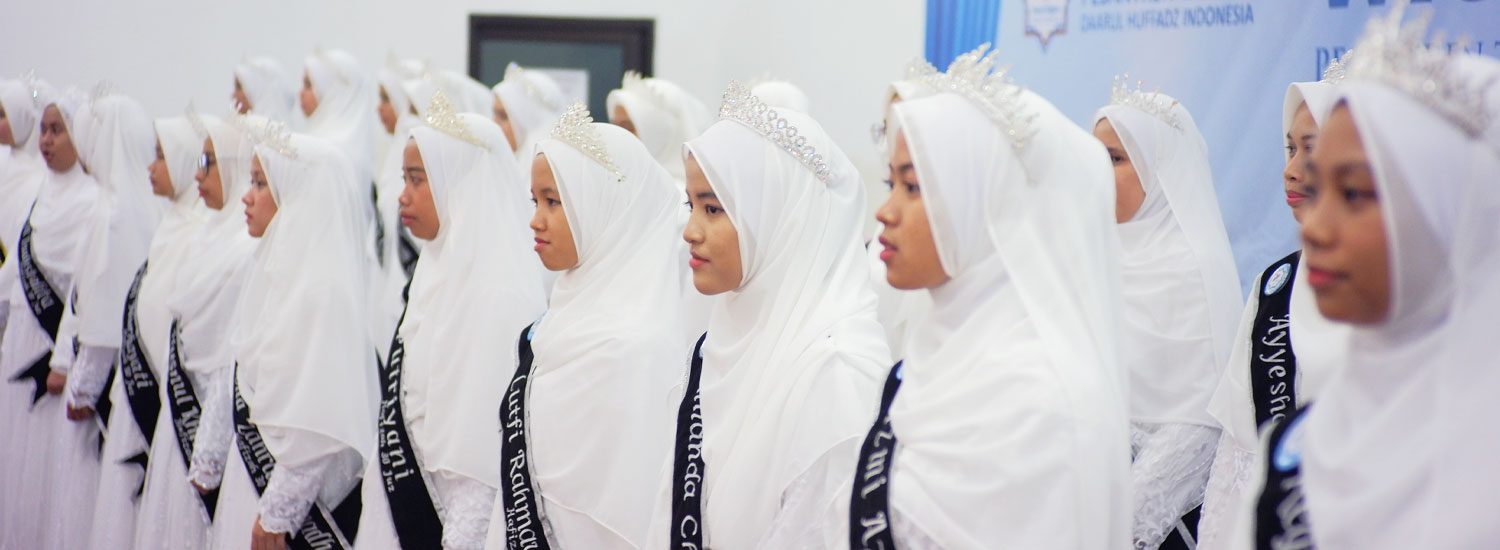
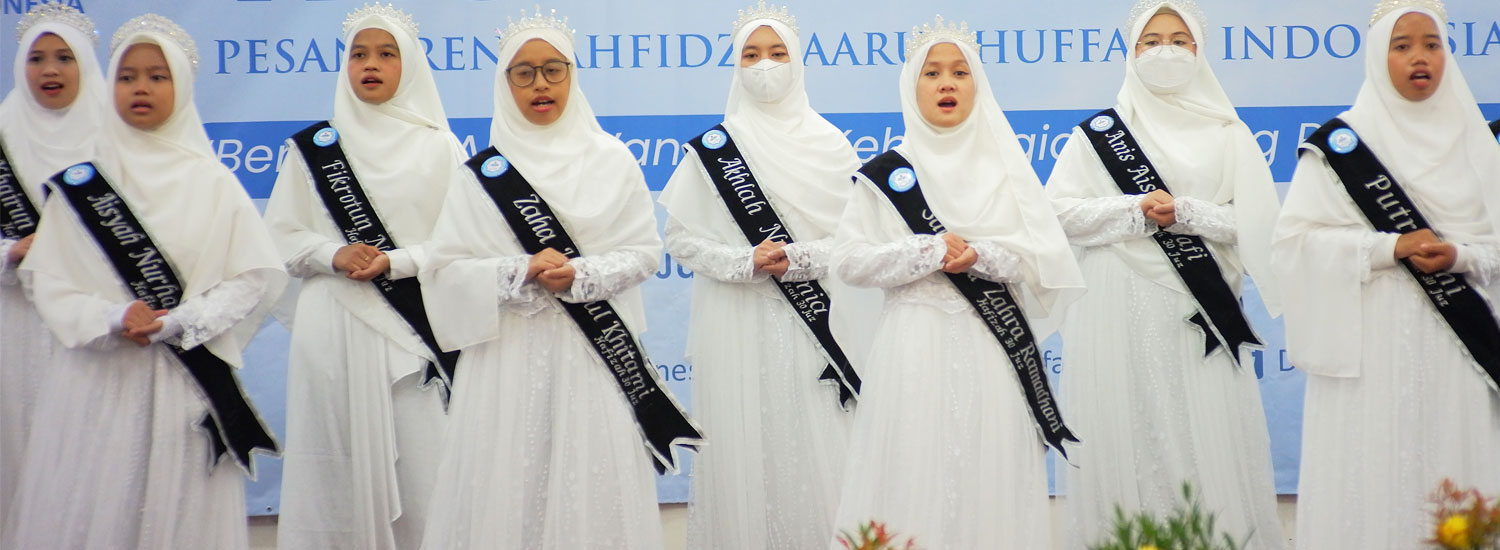
menggati gambar beranda dan video profil

diff --git a/application/views/beranda/v_beranda.php b/application/views/beranda/v_beranda.php
@@ -180,7 +180,7 @@
                     <div class="avideo-btn-4">
                         <div class="tp-slider-video-btn play_btn">
                             <a class="venobox" data-autoplay="true" data-vbtype="video"
-                                href="https://youtu.be/E2bHLpjyFSg"><i class="fas fa-play"></i></a>
+                                href="https://www.youtube.com/watch?v=n88cSqrdu-I"><i class="fas fa-play"></i></a>
                         </div>
                     </div>
                 </div>
@@ -463,6 +463,7 @@
         </div>
     </div>
 </section>
+
 
 
 <!-- faq area start here -->
